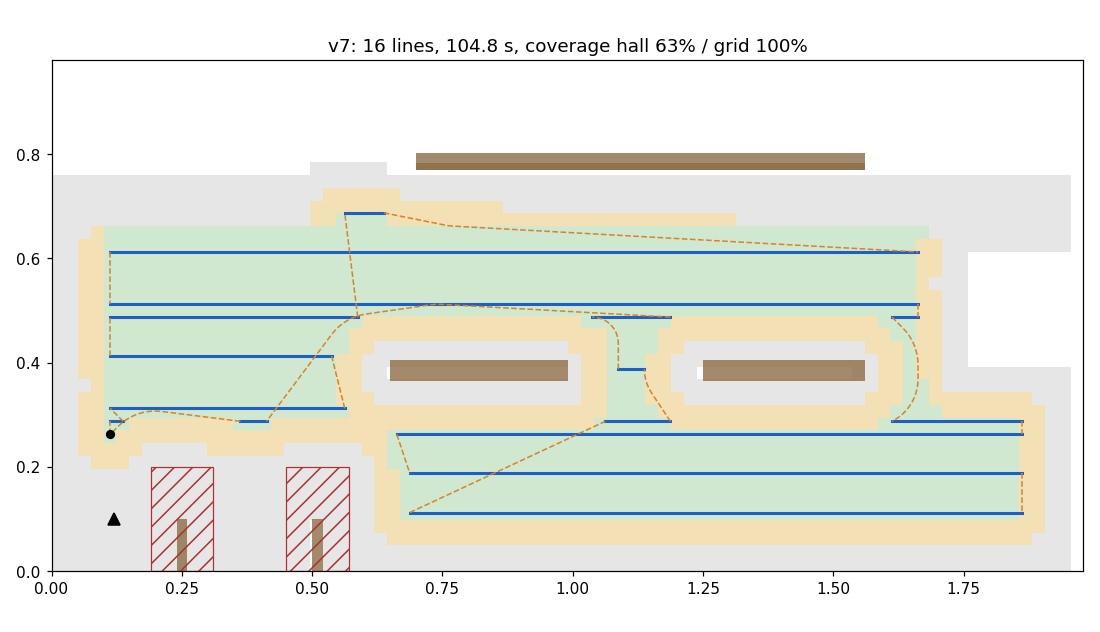
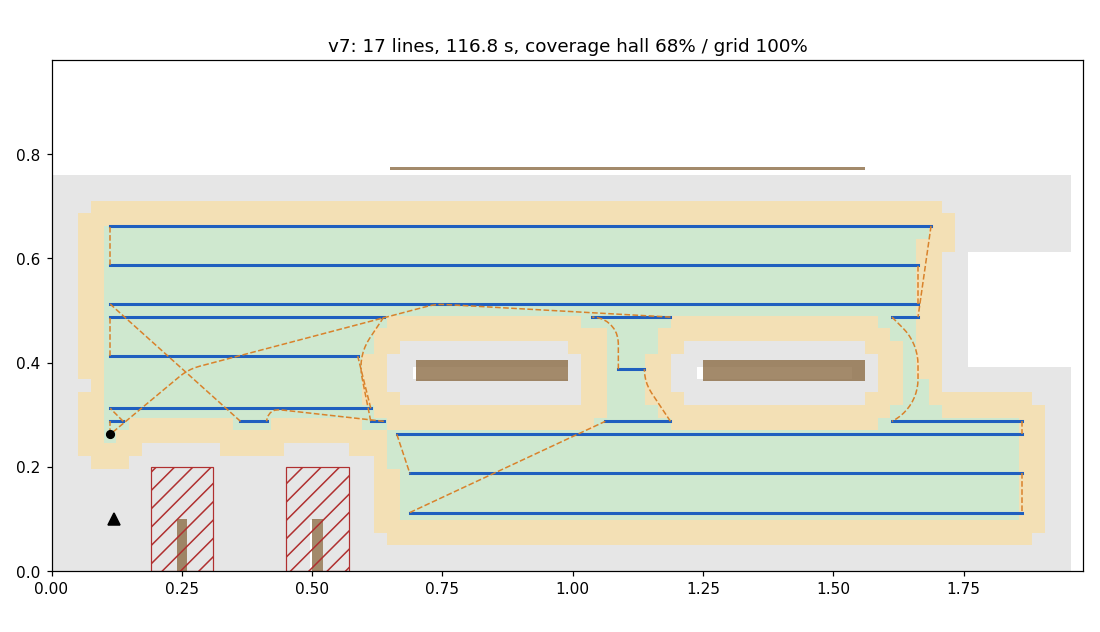
fix(cleaner): regenerate the v7 coverage plan on the corrected shelf ends

diff --git a/docs/청소_로봇.md b/docs/청소_로봇.md
@@ -56,22 +56,22 @@
 
 | | v7 | d2 |
 |---|---|---|
-| 셀 | 7 | 3 |
-| 줄 | 16 | 9 |
-| 줄 길이 합 | 8.775 m | 12.950 m |
-| 이동 길이 합(둥글게 바꾼 뒤) | 3.803 m | 2.222 m |
-| 한 바퀴 시간(회전 제외) | 104.8 s | 126.4 s |
-| 커버율, HALL 바닥 기준 | 63.4 % | 82.5 % |
+| 셀 | 8 | 3 |
+| 줄 | 17 | 9 |
+| 줄 길이 합 | 10.450 m | 12.950 m |
+| 이동 길이 합(둥글게 바꾼 뒤) | 3.560 m | 2.222 m |
+| 한 바퀴 시간(회전 제외) | 116.8 s | 126.4 s |
+| 커버율, HALL 바닥 기준 | 67.5 % | 82.5 % |
 | 커버율, 청소 격자 기준 | 100 % | 100 % |
 | P-1을 가까운 빈칸으로 옮김 | 예: (0.12, 0.10) → (0.113, 0.263) | 아니오 |
-| HALL 바닥 칸 / 청소 격자 빈칸 | 2353 / 1004 | 2489 / 1663 |
+| HALL 바닥 칸 / 청소 격자 빈칸 | 2349 / 1018 | 2489 / 1663 |
 
 - v7의 P-1은 칸막이 1 둘레 `keepout_extra`([0.19, 0, 0.31, 0.20])를 0.093 키운 띠와 남쪽 벽 띠
   안이라 막힌다. 가장 가까운 빈칸은 0.16 m 북쪽이다.
 - v7의 HALL 바닥 기준이 낮은 까닭: 충전 칸 둘레 `keepout_extra`, OUT_DOCK과 WORK_DOCK 둘레,
-  진열대 셋 둘레, 벽 띠를 모두 0.093 키우면 HALL 바닥 2353칸 중 1004칸만 남는다. 남는 부분은 벽 띠와
+  진열대 셋 둘레, 벽 띠를 모두 0.093 키우면 HALL 바닥 2349칸 중 1018칸만 남는다. 남는 부분은 벽 띠와
   함께 FollowWall 한 바퀴와 다음 단계에서 정한다.
-- 줄 간격 0.068(실제 0.05 m): v7 24줄, 줄 14.100 m, 이동 4.313 m, 153.4 s / d2 14줄, 줄 21.700 m,
+- 줄 간격 0.068(실제 0.05 m): v7 24줄, 줄 14.325 m, 이동 5.614 m, 166.2 s / d2 14줄, 줄 21.700 m,
   이동 3.497 m, 210.0 s. 둥근 경로 검사는 둘 다 통과한다.
 - 그림: `docs/img/coverage_v7.png`, `coverage_d2.png`(`python3 tools/coverage_plot.py --layout v7
   --out docs/img/coverage_v7.png`). 초록은 청소 격자 빈칸, 노랑은 그 밖에서 몸이 지나간 바닥, 회색은
